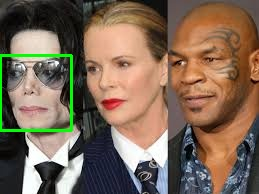
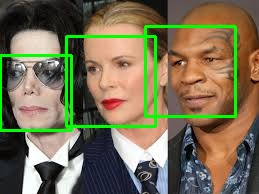
temp.py

Changed region(s): [[0.2471, 0.0928, 0.9266, 0.6804]]

diff --git a/temp.py b/temp.py
@@ -18,14 +18,18 @@ DEFAULT_IMAGE_PATH = os.path.join(IMAGE_DIR, 'default-mask.png')
 BLACK_IMAGE_PATH = os.path.join(IMAGE_DIR, 'black-mask.png')
 BLUE_IMAGE_PATH = os.path.join(IMAGE_DIR, 'blue-mask.png')
 RED_IMAGE_PATH = os.path.join(IMAGE_DIR, 'red-mask.png')
-center_x=0
-center_y=0
-mask_left_width=0
-mask_right_width=0
-new_height=0
-chin_right_x=0
-x_ori=0
-y_ori=0
+center_1=[]
+center_2=[]
+mask_left=[]
+mask_right=[]
+new_heigh=[]
+chin_right=[]
+x_ori=[]
+y_ori=[]
+rect_top = []
+rect_bottom = []
+w1 = []
+h1 = []
 def rect_to_bbox(rect):
     """获得人脸矩形的坐标信息"""
     # print(rect)
@@ -34,10 +38,12 @@ def rect_to_bbox(rect):
     w = rect[1] - x
     h = rect[2] - y
     print('face_co-ordinates '+str(((rect[3],rect[0]),(rect[1],rect[2]))))
-    global x_ori
-    x_ori = rect[3]
-    global y_ori
-    y_ori = rect[0]
+    x_ori.append(rect[3])
+    y_ori.append(rect[0])
+    w1.append(w)
+    h1.append(h)
+    rect_top.append((rect[3],rect[0]))
+    rect_bottom.append((rect[1],rect[2]))
     return (x, y, w, h)
 
 
@@ -151,28 +157,29 @@ class FaceMasker:
             faces_aligned = face_alignment(src_faces)
             face_num = 0
             for faces in faces_aligned:
-                face_num = face_num + 1
                 faces = cv2.cvtColor(faces, cv2.COLOR_RGBA2BGR)
                 size = (int(128), int(128))
                 #faces_after_resize = cv2.resize(faces, size, interpolation=cv2.INTER_AREA)
 
 
-                left_x = center_x-mask_left_width
-                left_y = center_y-new_height//2
-                right_x = center_x+mask_right_width
-                right_y = center_y+new_height//2
+                left_x = center_1[face_num]-mask_left[face_num]
+                left_y = center_2[face_num]-new_heigh[face_num]//2
+                right_x = center_1[face_num]+mask_right[face_num]
+                right_y = center_2[face_num]+new_heigh[face_num]//2
 
                 #Normalisation
-                left_x = max(0,left_x-x_ori)
-                left_y -= y_ori
-                right_x = min(right_x-x_ori,chin_right_x-x_ori,w-1)
-                right_y = min(h-1,right_y-y_ori)
+                left_x = max(0,left_x-x_ori[face_num])
+                left_y -= y_ori[face_num]
+                right_x = min(right_x-x_ori[face_num],chin_right[face_num]-x_ori[face_num],w1[face_num]-1)
+                right_y = min(h1[face_num]-1,right_y-y_ori[face_num])
 # mask coordinate
                 print("Mask coordinates " + str((left_x, left_y)) + str((right_x, right_y)))
 
-                cv2.rectangle(img, (rect[3], rect[0]), (rect[1],rect[2]), (0, 255, 0), 2)
+                cv2.rectangle(img,rect_top[face_num], rect_bottom[face_num], (0, 255, 0), 2)
                 cv2.rectangle(faces, (left_x, left_y), (right_x, right_y), (0, 255, 0), 2)
                 cv2.imwrite(self.save_path+str(face_num)+'.jpg',faces)
+                face_num = face_num + 1
+
             cv2.imwrite(self.save_path+str(face_num+1)+'.jpg',img)
 
             # if self.show:
@@ -184,7 +191,6 @@ class FaceMasker:
             print('Found no face.'+self.save_path)
 
     def _mask_face(self, face_landmark: dict):
-        global center_x,center_y,mask_left_width,mask_right_width,new_height,chin_right_x
         nose_bridge = face_landmark['nose_bridge']
         nose_point = nose_bridge[len(nose_bridge) * 1 // 4]
         nose_v = np.array(nose_point)
@@ -241,10 +247,12 @@ class FaceMasker:
         #print('(box_x, box_y) '+str((box_x, box_y))+str((mask_img.width,mask_img.height)))
         #print('mask_img '+str((mask_img.width,mask_img.height)))
 
-        mask_left_width = mask_left_img.width
-        mask_right_width = mask_right_img.width
-        chin_right_x = chin_right_point[0]
-
+        mask_left.append(mask_left_img.width)
+        mask_right.append(mask_right_img.width)
+        chin_right.append(chin_right_point[0])
+        center_1.append(center_x)
+        center_2.append(center_y)
+        new_heigh.append(new_height)
     def _save(self):
         path_splits = os.path.splitext(self.face_path)
         new_face_path = path_splits[0] + '-with-mask' + path_splits[1]

diff --git a/temp1.py b/temp1.py
@@ -14,11 +14,10 @@ print(len(list))
 '''
 '''
 import cv2
-img = cv2.imread('/media/ayush/Elements/Mask_Recognition/Mask-Dataset/RWMFD_part_2_pro/00000/test.jpg')
+img = cv2.imread('RWMFD_part_2_pro/00000/test.jpg')
 cv2.rectangle(img, (145,26),(235,116), (0, 255, 0), 2)
 #cv2.rectangle(img, (171,587),(439,854), (0, 255, 0), 2)
 while True:
     cv2.imshow('',img)
     if cv2.waitKey(1) & 0xFF == ord('q'):
         break
-'''
